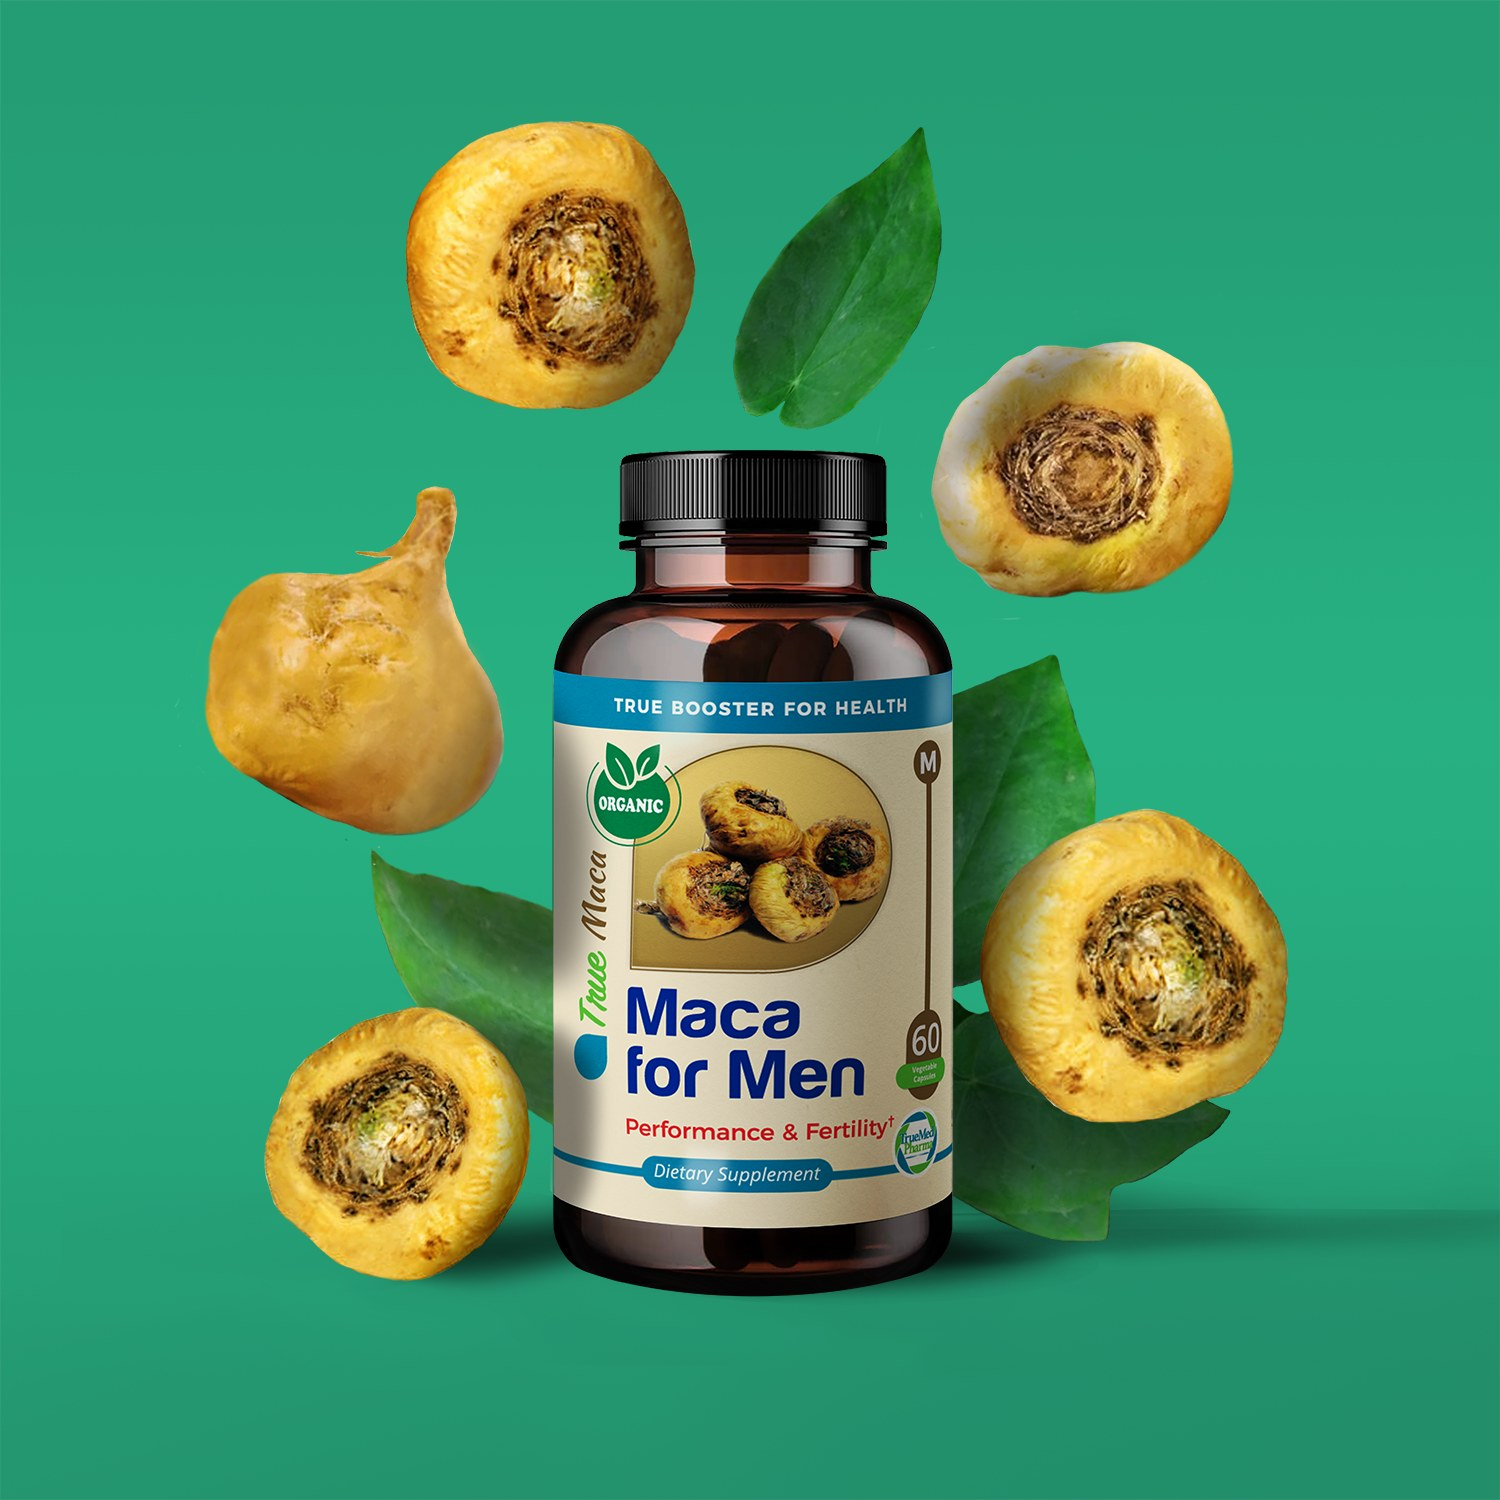
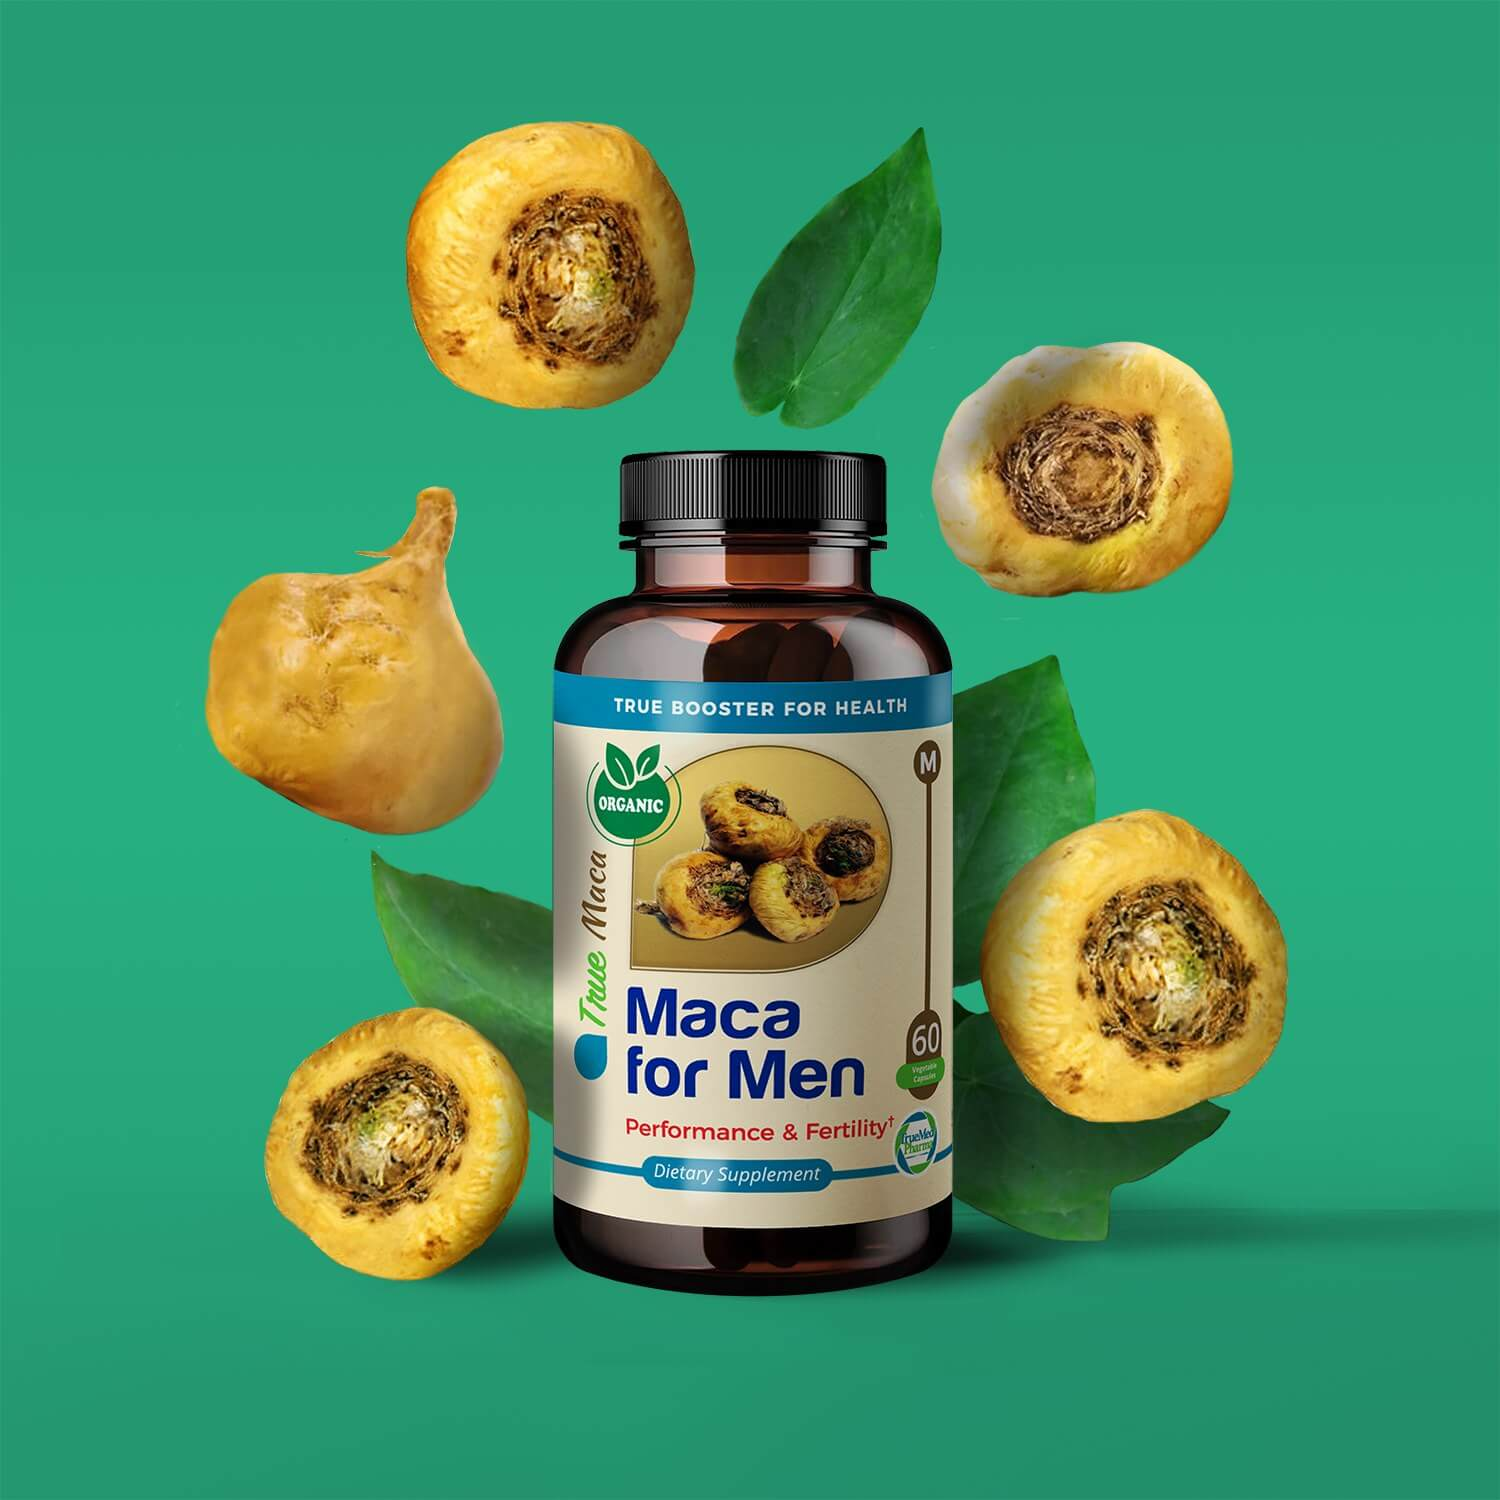
optimize images

Changed region(s): [[0.4293, 0.6747, 0.5213, 0.7973], [0.3987, 0.5213, 0.46, 0.552], [0.3987, 0.644, 0.4293, 0.6747]]

diff --git a/pages/index-3.html b/pages/index-3.html
@@ -10,14 +10,14 @@
   <meta name="viewport" content="width=device-width, initial-scale=1, shrink-to-fit=no">
   <meta name="description" content="Find the perfect natural supplements for you. 100% organic, non-GMO dietary supplements, vitamins, gummies, capsules, and more. Learn more.">
   <!-- Google tag (gtag.js) -->
-  <script async src="https://www.googletagmanager.com/gtag/js?id=G-M8S4MT3EYG"></script>
+  <!-- <script async src="https://www.googletagmanager.com/gtag/js?id=G-M8S4MT3EYG"></script>
   <script>
     window.dataLayer = window.dataLayer || [];
     function gtag(){dataLayer.push(arguments);}
     gtag('js', new Date());
 
     gtag('config', 'G-M8S4MT3EYG');
-  </script>
+  </script> -->
   <!-- Favicon icon-->
   <link rel="icon" type="image/x-icon" href="../assets/images/favicon/trb.png">
   <!-- Libs CSS -->
